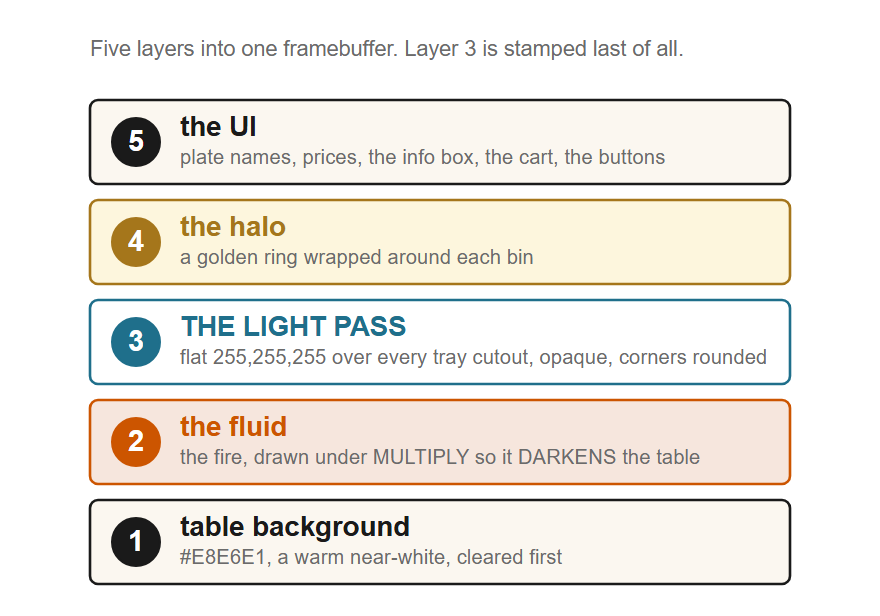
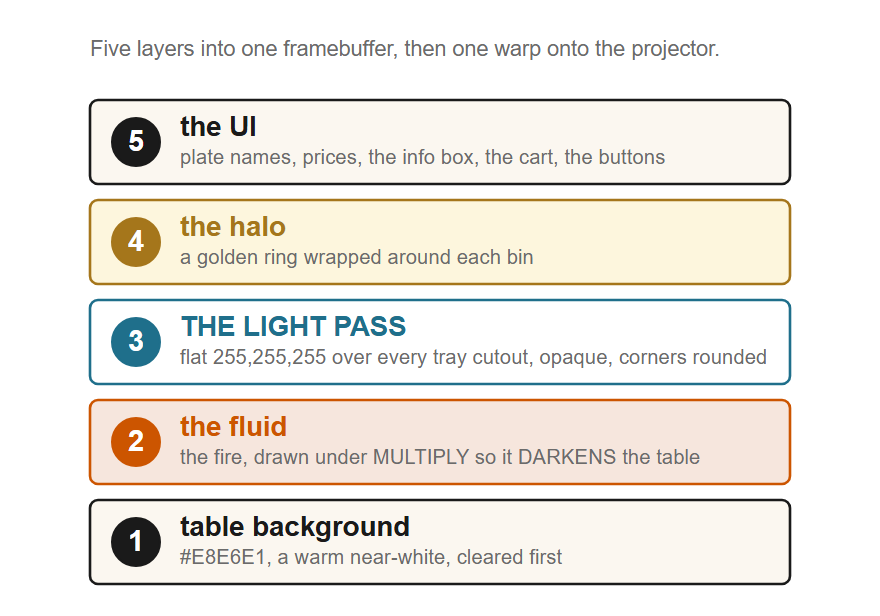
Drop the "stamped last" clause from the light-pass caption
Without the callout it reads as a contradiction with the layer 3
position in the stack. Plain caption instead.

Changed region(s): [[0.4602, 0.0617, 0.8284, 0.0925]]

diff --git a/tools/render_diagrams.py b/tools/render_diagrams.py
@@ -738,7 +738,7 @@ def fbo():
     s = Svg(W, H)
 
     X, CW = 90, 700
-    s.text(X, 56, "Five layers into one framebuffer. Layer 3 is stamped last of all.",
+    s.text(X, 56, "Five layers into one framebuffer, then one warp onto the projector.",
            18, MUTED)
 
     rows = [
